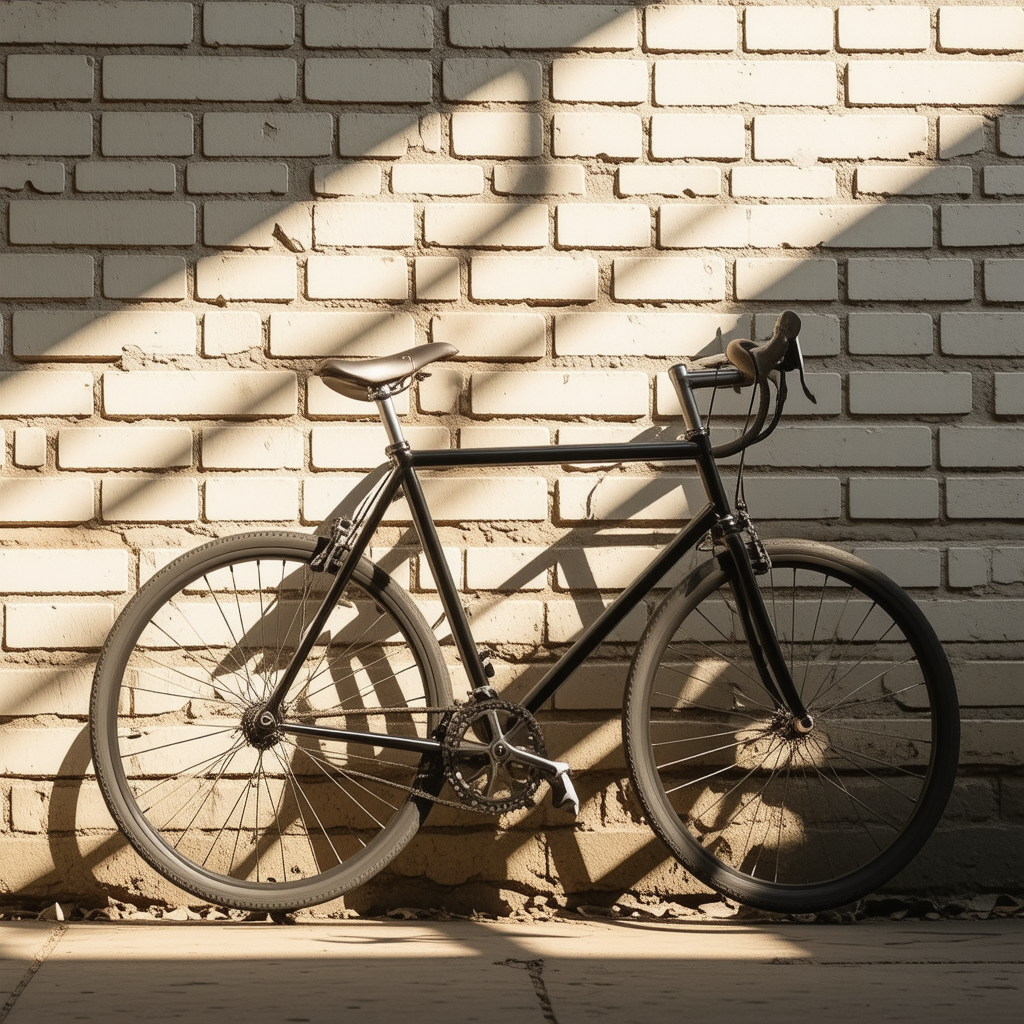
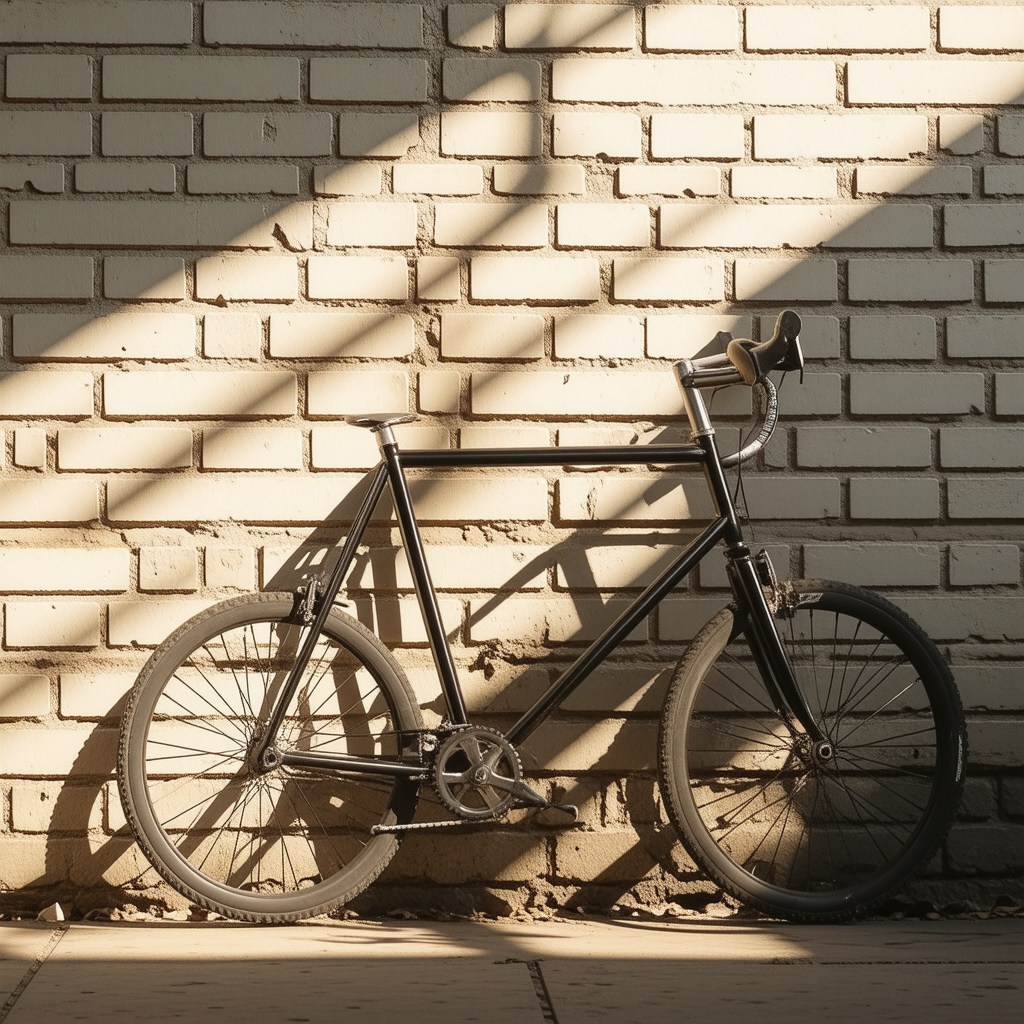
-

diff --git a/main.py b/main.py
@@ -59,28 +59,34 @@ wandb.init(project="VSF_benchmark")
 
 import tqdm
 
-lock = asyncio.Lock()
-async def judge_async(image_ours, prompt, neg_prompt):
-    global scores, total, wandb
-    delta = await asyncio.to_thread(ask_gpt, image_ours, prompt, neg_prompt)
+scores = np.zeros((2, 3))
+total = 0
+lock = threading.Lock()
+
+loop = asyncio.new_event_loop()
+def _run_loop(loop: asyncio.AbstractEventLoop):
+    asyncio.set_event_loop(loop)
+    loop.run_forever()
+
+loop_thread = threading.Thread(target=_run_loop, args=(loop,), daemon=True)
+loop_thread.start()
+
+async def judge_async(image_ours, image_nag, prompt, neg_prompt):
+    global scores, total
+    delta = await asyncio.to_thread(ask_gpt, image_ours, image_nag, prompt, neg_prompt)
     delta = delta.T
-    async with lock:
+    with lock:
         scores += delta
         total += 1
         df = pd.DataFrame(
             scores / total,
-            columns=["positive", "negative"],
+            columns=["positive", "negative", "quality"],
             index=["ours", "vanilla"],
         )
-    print("ID: ", total)
     print("delta:\n", delta)
     print(df)
-    wandb.log({
-        "step": total,
-        "score_board": wandb.Table(
-            data=df,
-        ),
-    })
+
+tasks = []        
 
 def run(run_id, scale, offset):
     run_id = f"{run_id:03d}"
@@ -98,13 +104,17 @@ def run(run_id, scale, offset):
         f.write(f"**Seed:** {seed}\n\n")
         f.write(f"**WandB Run ID:** {wandb.run.id}\n\n")
         
-            
     for idx, i in enumerate(tqdm.tqdm(prompts_data)):
         prompt = i["pos"]
         neg_prompt = i["neg"]
         image_ours = inference(pipe, prompt, neg_prompt, seed=seed, scale=scale, offset=offset)
         image_ours.save(f"benchmark/{run_id}/ours_{idx:03d}.png")
-        asyncio.create_task(judge_async(image_ours, prompt, neg_prompt))
+        tasks.append(
+            asyncio.run_coroutine_threadsafe(
+                judge_async(image_ours, prompt, neg_prompt),
+                loop,
+            )
+        )
         wandb.log({
             "ours": wandb.Image(image_ours, caption=f"+: {prompt}\n -: {neg_prompt}"),
         })
@@ -113,15 +123,25 @@ def run(run_id, scale, offset):
             f.write(f"**Prompt:** {prompt}\n")
             f.write(f"**Negative Prompt:** {neg_prompt}\n")
             f.write(f"![ours](ours_{idx:03d}.png)\n\n")
+    
+    return tasks
+
+def main():
+    all_tasks = []
+    for i in range(36):
+        run_id = i
+        scale = random.uniform(0.0, 2.0)
+        offset = random.uniform(0.0, 0.4)
+        print(f"Running {run_id} with scale {scale:.2f} and offset {offset:.2f}")
+        tasks = run(run_id, scale, offset)
+        all_tasks.extend(tasks)
         
-        wandb
-for i in range(36):
-    run_id = i
-    scale = random.uniform(0.0, 2.0)
-    offset = random.uniform(0.0, 0.4)
-    print(f"Running {run_id} with scale {scale:.2f} and offset {offset:.2f}")
-    run(run_id, scale, offset)
+        if COLAB:
+            os.system(f"zip -r {drive_path}/{run_id}.zip benchmark/{run_id}")
     
-    if COLAB:
-        os.system(f"zip -r {drive_path}/{run_id}.zip benchmark/{run_id}")
-    
+
+for f in tasks:
+    f.result()
+
+loop.call_soon_threadsafe(loop.stop)
+loop_thread.join()

diff --git a/benchmark/000/preview.md b/benchmark/000/preview.md
@@ -5,3 +5,62 @@
 
 **WandB Run ID:** pkazcp6y
 
+# Run 000
+**Scale:** 0.5583148946070171
+**Offset:** 0.12206595413947996
+**Seed:** 42
+
+**WandB Run ID:** q1ek8zsx
+
+# Run 000
+**Scale:** 1.045173299664418
+**Offset:** 0.17399731472719582
+**Seed:** 42
+
+**WandB Run ID:** b9nthslg
+
+### 000
+**Prompt:** A polished bicycle frame leans against a weathered brick wall under soft morning light.
+**Negative Prompt:** wheels
+![ours](ours_000.png)
+
+### 001
+**Prompt:** A serene owl perches on a moss-covered branch silhouetted against the rising moon.
+**Negative Prompt:** eyes
+![ours](ours_001.png)
+
+### 002
+**Prompt:** An ornate grandfather clock stands in a dim hallway, its pendulum swinging with measured grace.
+**Negative Prompt:** clock hands
+![ours](ours_002.png)
+
+### 003
+**Prompt:** A classic acoustic guitar rests on a wooden stool inside a cozy recording studio filled with soft ambient light.
+**Negative Prompt:** strings
+![ours](ours_003.png)
+
+### 004
+**Prompt:** A vintage typewriter sits on a cluttered desk surrounded by scattered papers and ink bottles.
+**Negative Prompt:** keys
+![ours](ours_004.png)
+
+### 005
+**Prompt:** A tranquil garden pond mirrors the glow of paper lanterns and the surrounding stone path.
+**Negative Prompt:** fish
+![ours](ours_005.png)
+
+### 006
+**Prompt:** A gleaming automobile chassis is displayed on a rotating platform beneath showroom spotlights.
+**Negative Prompt:** tires
+![ours](ours_006.png)
+
+### 007
+**Prompt:** A sunny playground features a sturdy metal frame arching over freshly raked woodchips.
+**Negative Prompt:** swing seats
+![ours](ours_007.png)
+
+### 008
+**Prompt:** A freshly baked pizza cools on a wooden paddle beside sprigs of basil and a jar of sauce.
+**Negative Prompt:** cheese
+![ours](ours_008.png)
+
